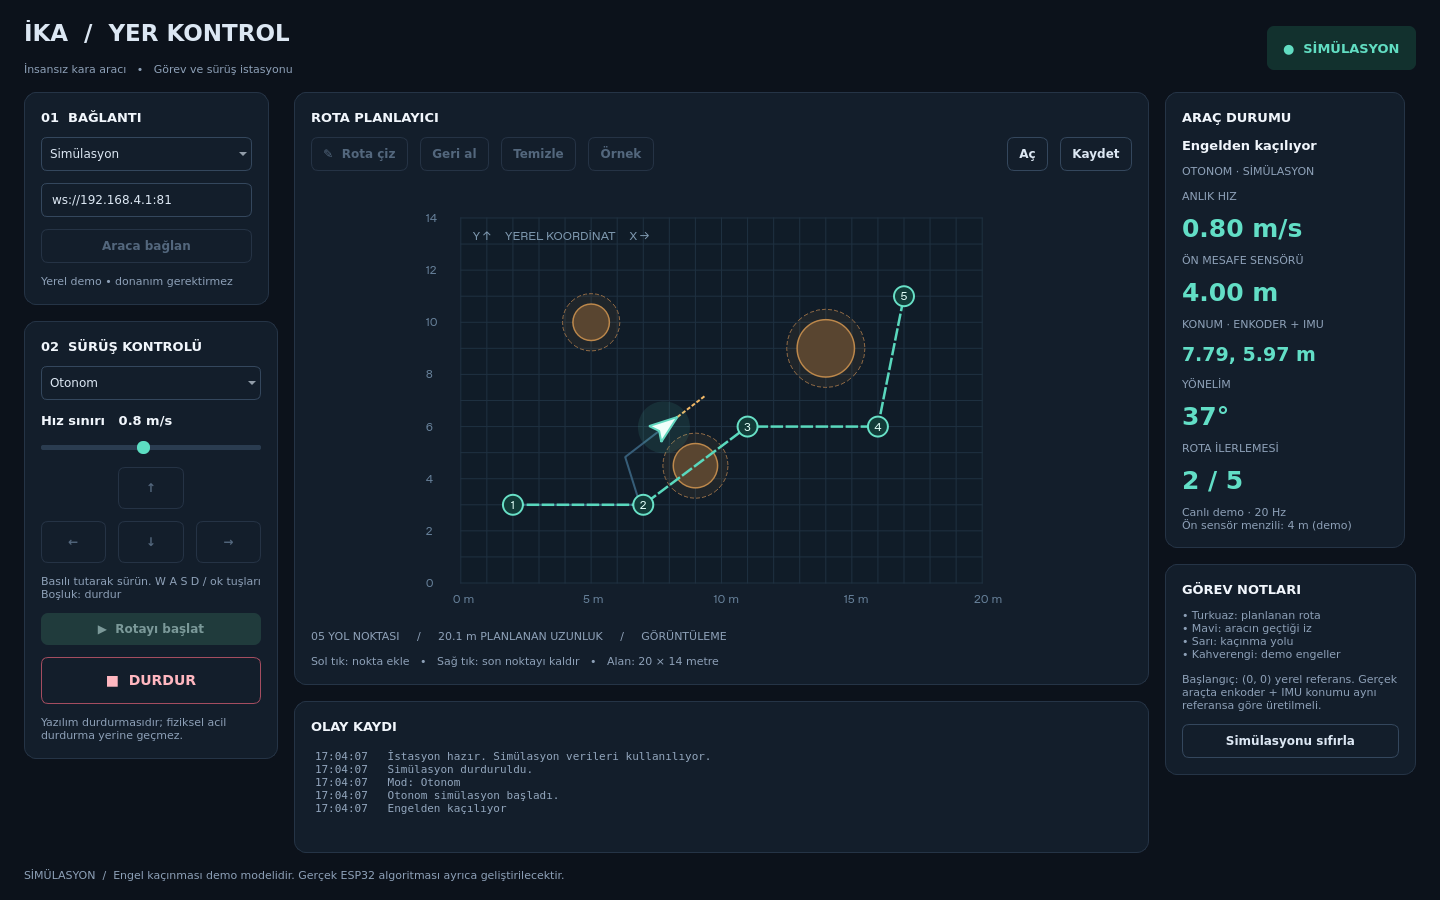
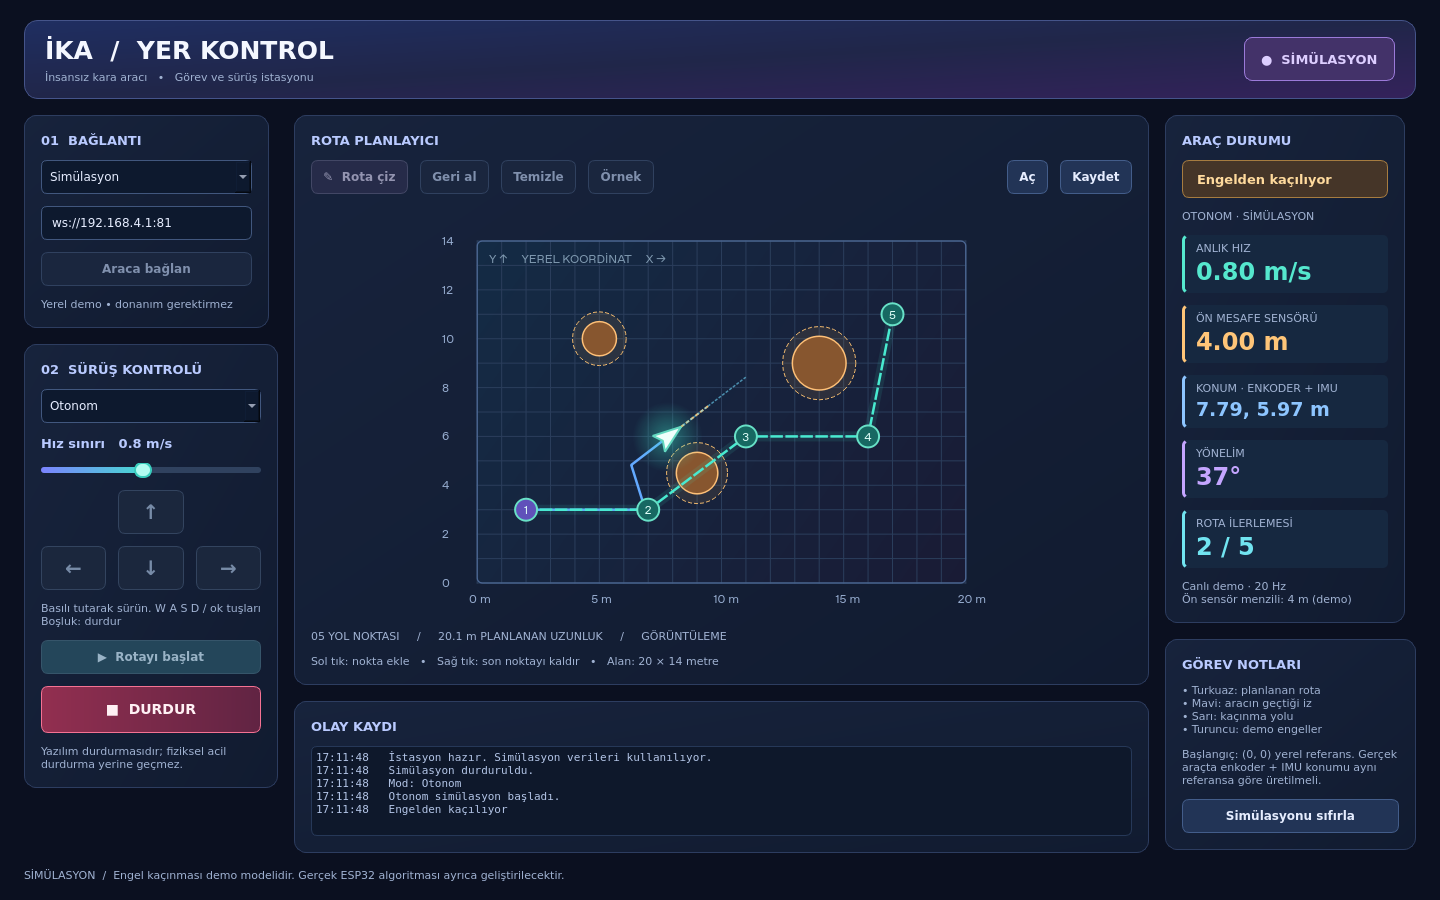
Refresh desktop interface with vivid colors and telemetry cards

diff --git a/ika/app.py b/ika/app.py
@@ -7,34 +7,47 @@ from datetime import datetime
 from pathlib import Path
 
 from PySide6.QtCore import Qt, QPointF, QRectF, QTimer, QUrl, Signal
-from PySide6.QtGui import QColor, QFont, QPainter, QPen, QPolygonF
+from PySide6.QtGui import QColor, QFont, QLinearGradient, QPainter, QPen, QPolygonF, QRadialGradient
 from PySide6.QtWidgets import (QApplication, QComboBox, QFileDialog, QFrame, QGridLayout,
     QHBoxLayout, QLabel, QLineEdit, QMainWindow, QMessageBox, QPushButton,
-    QSlider, QTextEdit, QVBoxLayout, QWidget)
+    QSlider, QScrollArea, QTextEdit, QVBoxLayout, QWidget)
 from PySide6.QtWebSockets import QWebSocket
 
 from .model import Simulator, DEFAULT_ROUTE, OBSTACLES, WIDTH, HEIGHT, encode_route, decode_route, validate_route
 
-BG = '#0c121b'
 STYLE = '''
-QMainWindow, QWidget { background: #0c121b; color: #dce7f3; font-family: 'Segoe UI', 'DejaVu Sans'; font-size: 12px; }
-QFrame#panel { background: #131e2b; border: 1px solid #253446; border-radius: 12px; }
-QFrame#panel QLabel, QFrame#panel QWidget { background: transparent; }
-QLabel#muted { color: #8da0b7; font-size: 11px; }
-QLabel#title { font-size: 23px; font-weight: 700; }
-QLabel#section { font-size: 13px; font-weight: 700; color: #f1f6fc; }
-QLabel#metric { font-size: 25px; font-weight: 600; color: #62dec6; }
-QPushButton { background: #1c2b3d; border: 1px solid #34475d; border-radius: 7px; padding: 9px 11px; font-weight: 600; }
-QPushButton:hover { background: #293e54; border-color: #66dcc5; }
-QPushButton:pressed { background: #35756e; }
-QPushButton:disabled { color: #53677d; border-color: #253345; background: #152130; }
-QPushButton#primary { background: #53d7bc; color: #082b29; border: none; }
-QPushButton#primary:disabled { background: #203b3c; color: #7b9999; }
-QPushButton#stop { background: #5a2632; color: #ffb7c0; border: 1px solid #a54d60; font-size: 14px; padding: 14px; }
-QComboBox, QLineEdit { background: #0d1723; border: 1px solid #34475d; border-radius: 6px; padding: 8px; }
-QTextEdit { background: #0d1723; border: none; color: #92a6bd; font-family: Consolas, monospace; font-size: 11px; }
-QSlider::groove:horizontal { height: 5px; background: #2a3c50; border-radius: 2px; }
-QSlider::handle:horizontal { background: #5cdec2; width: 13px; margin: -4px 0; border-radius: 6px; }
+QMainWindow, QWidget { background: #0b1020; color: #e6edff; font-family: 'Segoe UI', 'DejaVu Sans'; font-size: 12px; }
+QFrame#header { background: qlineargradient(x1:0, y1:0, x2:1, y2:1, stop:0 #1f2e61, stop:0.5 #202649, stop:1 #34225b); border: 1px solid #45548a; border-radius: 14px; }
+QFrame#header QLabel { background: transparent; }
+QFrame#panel { background: qlineargradient(x1:0, y1:0, x2:1, y2:1, stop:0 #17233c, stop:1 #111b30); border: 1px solid #2d3d60; border-radius: 12px; }
+QFrame#panel QLabel { background: transparent; }
+QSlider { background: transparent; }
+QLabel#muted { color: #a0b2d2; font-size: 11px; }
+QLabel#title { font-size: 25px; font-weight: 700; color: #f4f7ff; }
+QLabel#section { font-size: 13px; font-weight: 700; color: #b9caff; }
+QLabel#metric { font-size: 25px; font-weight: 700; color: #50e1cb; }
+QPushButton { background: #223456; border: 1px solid #435d8a; border-radius: 7px; padding: 9px 11px; font-weight: 600; }
+QPushButton:hover { background: #304a77; border-color: #8bafff; color: #ffffff; }
+QPushButton:pressed { background: #3b58a0; border-color: #b9ccff; }
+QPushButton:disabled { color: #8090ad; border-color: #30415f; background: #1a263e; }
+QPushButton#primary { background: qlineargradient(x1:0,y1:0,x2:1,y2:0,stop:0 #20cdb4,stop:1 #4c9bff); color: #061d32; border: 1px solid #67dfed; }
+QPushButton#primary:hover { background: #77e9df; }
+QPushButton#primary:disabled { background: #24465a; color: #99b3c6; border-color: #36556a; }
+QPushButton#stop { background: qlineargradient(x1:0,y1:0,x2:1,y2:0,stop:0 #922f50,stop:1 #612443); color: #fff0f4; border: 1px solid #f57293; font-size: 14px; padding: 14px; }
+QPushButton#stop:hover { background: #b43659; border-color: #ffb0c6; }
+QPushButton#draw { background: #3b326a; border-color: #9078dc; color: #e4d9ff; }
+QPushButton#draw:hover { background: #59448d; }
+QPushButton#draw:disabled { background: #262b49; color: #9394b0; border-color: #424765; }
+QPushButton#drive { background: #1e3554; color: #85d9ff; font-size: 20px; border-color: #3e638b; }
+QPushButton#drive:pressed { background: #267b92; color: #ffffff; }
+QPushButton#drive:disabled { background: #1b273d; color: #778ba7; border-color: #33445f; }
+QComboBox, QLineEdit { background: #0d192e; border: 1px solid #41577e; border-radius: 6px; padding: 8px; selection-background-color: #3e63ab; }
+QComboBox:hover, QLineEdit:focus { border-color: #8caeff; }
+QComboBox QAbstractItemView { background: #192844; color: #eef3ff; selection-background-color: #3e5390; }
+QTextEdit { background: #0e182b; border: 1px solid #263858; border-radius: 6px; color: #b3c5e7; font-family: Consolas, monospace; font-size: 11px; }
+QSlider::groove:horizontal { height: 6px; background: #30425f; border-radius: 3px; }
+QSlider::sub-page:horizontal { background: qlineargradient(x1:0,y1:0,x2:1,y2:0,stop:0 #7b83ff,stop:1 #46d9d0); border-radius: 3px; }
+QSlider::handle:horizontal { background: #b1fcf1; border: 2px solid #39cdbd; width: 14px; margin: -5px 0; border-radius: 8px; }
 '''
 
 
@@ -108,13 +121,19 @@ class MapCanvas(QWidget):
         p.setRenderHint(QPainter.RenderHint.Antialiasing)
         s,ox,oy = self.area()
         rect = QRectF(ox,oy,WIDTH*s,HEIGHT*s)
-        p.fillRect(rect,QColor('#101c28'))
-        p.setPen(QPen(QColor('#1e3040'),1))
+        field = QLinearGradient(rect.topLeft(), rect.bottomRight())
+        field.setColorAt(0, QColor('#142b45'))
+        field.setColorAt(1, QColor('#191b35'))
+        p.fillRect(rect, field)
+        p.setPen(QPen(QColor('#2a3d5b'),1))
         for x in range(21):
             p.drawLine(self.screen(x,0),self.screen(x,HEIGHT))
         for y in range(15):
             p.drawLine(self.screen(0,y),self.screen(WIDTH,y))
-        p.setPen(QColor('#668099'))
+        p.setPen(QPen(QColor('#4c6895'), 1.3))
+        p.setBrush(Qt.BrushStyle.NoBrush)
+        p.drawRoundedRect(rect, 5, 5)
+        p.setPen(QColor('#96accf'))
         p.setFont(QFont('Segoe UI',9))
         for x in range(0,21,5):
             a = self.screen(x,0)
@@ -124,25 +143,28 @@ class MapCanvas(QWidget):
             p.drawText(QPointF(a.x()-35,a.y()+4),str(y))
         if self.simulation:
             for x,y,r in OBSTACLES:
-                p.setPen(QPen(QColor('#8d6844'),1,Qt.PenStyle.DashLine))
-                p.setBrush(QColor(230,161,73,18))
+                p.setPen(QPen(QColor('#edb76d'),1,Qt.PenStyle.DashLine))
+                p.setBrush(QColor(255,177,76,24))
                 p.drawEllipse(self.screen(x,y),(r+.4)*s,(r+.4)*s)
-                p.setPen(QPen(QColor('#bd884b'),1.5))
-                p.setBrush(QColor('#594530'))
+                p.setPen(QPen(QColor('#ffc077'),1.5))
+                p.setBrush(QColor('#87562f'))
                 p.drawEllipse(self.screen(x,y),r*s,r*s)
         if len(self.trace)>1:
-            p.setPen(QPen(QColor('#365d78'),2))
+            p.setPen(QPen(QColor('#63a9ff'),2.5))
             p.drawPolyline(QPolygonF([self.screen(*a) for a in self.trace]))
         if len(self.route)>1:
-            p.setPen(QPen(QColor('#59d8bd'),2.5,Qt.PenStyle.DashLine))
-            p.drawPolyline(QPolygonF([self.screen(*a) for a in self.route]))
+            route_shape = QPolygonF([self.screen(*a) for a in self.route])
+            p.setPen(QPen(QColor(63, 231, 208, 25), 10))
+            p.drawPolyline(route_shape)
+            p.setPen(QPen(QColor('#48ead0'),2.5,Qt.PenStyle.DashLine))
+            p.drawPolyline(route_shape)
         for i, point in enumerate(self.route):
             a = self.screen(*point)
-            p.setBrush(QColor('#123b38'))
+            p.setBrush(QColor('#176862') if i else QColor('#6051ba'))
             p.setPen(QPen(QColor('#68e1c7'),2))
-            p.drawEllipse(a,10,10)
+            p.drawEllipse(a,11,11)
             p.setPen(QColor('#e1fff9'))
-            p.drawText(QRectF(a.x()-10,a.y()-10,20,20),Qt.AlignmentFlag.AlignCenter,str(i+1))
+            p.drawText(QRectF(a.x()-11,a.y()-11,22,22),Qt.AlignmentFlag.AlignCenter,str(i+1))
         if self.sim.detour and self.simulation:
             p.setPen(QPen(QColor('#f3b967'),2,Qt.PenStyle.DotLine))
             p.drawPolyline(QPolygonF([self.screen(self.sim.x,self.sim.y)]+[self.screen(*a) for a in self.sim.detour]))
@@ -150,9 +172,16 @@ class MapCanvas(QWidget):
         p.save()
         p.translate(a)
         p.rotate(-math.degrees(self.sim.yaw))
-        p.setBrush(QColor(96,220,196,25))
+        halo = QRadialGradient(QPointF(), 35)
+        halo.setColorAt(0, QColor(64, 241, 208, 100))
+        halo.setColorAt(1, QColor(64, 241, 208, 0))
+        p.setBrush(halo)
         p.setPen(Qt.PenStyle.NoPen)
-        p.drawEllipse(QPointF(),26,26)
+        p.drawEllipse(QPointF(),35,35)
+        # Simülasyonda ön sensörün ölçüm ışını.
+        if self.simulation:
+            p.setPen(QPen(QColor(113,219,255,150),1.5,Qt.PenStyle.DotLine))
+            p.drawLine(QPointF(20,0),QPointF(max(20,self.sim.front*s),0))
         p.setBrush(QColor('#effffb'))
         p.setPen(QPen(QColor('#63d8c0'),2))
         p.drawPolygon(QPolygonF([QPointF(17,0),QPointF(-11,-10),QPointF(-6,0),QPointF(-11,10)]))
@@ -192,11 +221,19 @@ class MainWindow(QMainWindow):
 
     def build_ui(self):
         root = QWidget()
-        self.setCentralWidget(root)
+        root.setMinimumSize(1200, 900)
+        scroll = QScrollArea()
+        scroll.setWidgetResizable(True)
+        scroll.setFrameShape(QFrame.Shape.NoFrame)
+        scroll.setWidget(root)
+        self.setCentralWidget(scroll)
         outer = QVBoxLayout(root)
         outer.setContentsMargins(24,20,24,18)
         outer.setSpacing(16)
-        header = QHBoxLayout()
+        header_box = QFrame()
+        header_box.setObjectName('header')
+        header = QHBoxLayout(header_box)
+        header.setContentsMargins(20, 14, 20, 14)
         branding = QVBoxLayout()
         brand_title = label('İKA  /  YER KONTROL', 'title')
         brand_title.setMinimumWidth(560)
@@ -206,9 +243,9 @@ class MainWindow(QMainWindow):
         header.addStretch()
         self.badge = label('●  SİMÜLASYON', 'section')
         self.badge.setFixedHeight(44)
-        self.badge.setStyleSheet('color: #61ddc2; padding: 12px; background: #12312e; border-radius: 7px;')
+        self.badge.setStyleSheet('color: #ddceff; padding: 12px; background: #433269; border: 1px solid #9b7ad9; border-radius: 8px;')
         header.addWidget(self.badge)
-        outer.addLayout(header)
+        outer.addWidget(header_box)
         columns = QHBoxLayout()
         columns.setSpacing(16)
         left = QVBoxLayout()
@@ -243,7 +280,7 @@ class MainWindow(QMainWindow):
         pad = QGridLayout()
         self.drive_buttons = []
         for text,row,col,axis,value in [('↑',0,1,0,1.),('←',1,0,1,1.),('↓',1,1,0,-1.),('→',1,2,1,-1.)]:
-            b = button(text)
+            b = button(text, name='drive')
             b.setMinimumHeight(42)
             b.pressed.connect(lambda a=axis,v=value:self.set_manual(a,v))
             b.released.connect(lambda a=axis:self.set_manual(a,0.))
@@ -262,7 +299,7 @@ class MainWindow(QMainWindow):
         center = QVBoxLayout()
         box, layout = panel('ROTA PLANLAYICI')
         toolbar = QHBoxLayout()
-        self.edit_btn = button('✎  Rota çiz',self.toggle_edit)
+        self.edit_btn = button('✎  Rota çiz',self.toggle_edit,'draw')
         self.undo_btn = button('Geri al',self.undo)
         self.clear_btn = button('Temizle',self.clear_route)
         self.demo_btn = button('Örnek',self.demo_route)
@@ -291,21 +328,30 @@ class MainWindow(QMainWindow):
         box, layout = panel('ARAÇ DURUMU')
         box.setFixedWidth(240)
         self.state_label = label('Hazır','section')
+        self.state_label.setStyleSheet('color: #79f1d4; background: #163d3e; border: 1px solid #2a7169; border-radius: 7px; padding: 10px;')
         layout.addWidget(self.state_label)
         self.mode_label = label('MANUEL','muted')
         layout.addWidget(self.mode_label)
         self.metrics = {}
+        metric_colors = {'speed': '#55e8ce', 'front': '#ffc578', 'position': '#8dc5ff', 'heading': '#c4a5ff', 'progress': '#71e4f0'}
         for key,title in [('speed','ANLIK HIZ'),('front','ÖN MESAFE SENSÖRÜ'),('position','KONUM · ENKODER + IMU'),('heading','YÖNELİM'),('progress','ROTA İLERLEMESİ')]:
-            layout.addWidget(label(title,'muted'))
+            card = QFrame()
+            color = metric_colors[key]
+            card.setStyleSheet(f'QFrame {{ background: #162840; border: none; border-left: 3px solid {color}; border-radius: 5px; }} QLabel {{ border: none; background: transparent; }}')
+            card_layout = QVBoxLayout(card)
+            card_layout.setContentsMargins(11, 7, 8, 7)
+            card_layout.setSpacing(3)
+            card_layout.addWidget(label(title,'muted'))
             self.metrics[key] = label('—','metric')
-            if key=='position':
-                self.metrics[key].setStyleSheet('font-size: 19px; color: #62dec6;')
-            layout.addWidget(self.metrics[key])
+            size = 19 if key=='position' else 24
+            self.metrics[key].setStyleSheet(f'font-size: {size}px; color: {color}; font-weight: 700;')
+            card_layout.addWidget(self.metrics[key])
+            layout.addWidget(card)
         self.age_label = label('Veri kaynağı: simülasyon','muted')
         layout.addWidget(self.age_label)
         right.addWidget(box)
         box, layout = panel('GÖREV NOTLARI')
-        layout.addWidget(label('• Turkuaz: planlanan rota\n• Mavi: aracın geçtiği iz\n• Sarı: kaçınma yolu\n• Kahverengi: demo engeller','muted'))
+        layout.addWidget(label('• Turkuaz: planlanan rota\n• Mavi: aracın geçtiği iz\n• Sarı: kaçınma yolu\n• Turuncu: demo engeller','muted'))
         layout.addWidget(label('Başlangıç: (0, 0) yerel referans. Gerçek araçta enkoder + IMU konumu aynı referansa göre üretilmeli.','muted'))
         self.reset_btn = button('Simülasyonu sıfırla',self.reset)
         layout.addWidget(self.reset_btn)
@@ -526,6 +572,18 @@ class MainWindow(QMainWindow):
             self.age_label.setText(f'Son veri: {now-self.last_rx:.1f} sn önce' if self.last_data else 'Henüz geçerli telemetri yok')
             self.connection_info.setText('WebSocket açık' if self.socket.isValid() else 'Bağlantı kapalı')
         self.state_label.setText(state)
+        if self.is_sim:
+            badge_colors = ('#ddceff', '#433269', '#9b7ad9')
+        elif self.last_data is not None and now-self.last_rx<1.:
+            badge_colors = ('#83f5dd', '#153d3e', '#328878')
+        else:
+            badge_colors = ('#ffd6a0', '#4b3431', '#ae7949')
+        fg, bg, border = badge_colors
+        self.badge.setStyleSheet(f'color: {fg}; background: {bg}; border: 1px solid {border}; border-radius: 8px; padding: 12px;')
+        if 'kaçıl' in state or 'güncel değil' in state or 'Güvenli geçiş yok' in state:
+            self.state_label.setStyleSheet('color: #ffda9d; background: #453528; border: 1px solid #a67c40; border-radius: 7px; padding: 10px;')
+        else:
+            self.state_label.setStyleSheet('color: #79f1d4; background: #163d3e; border: 1px solid #2a7169; border-radius: 7px; padding: 10px;')
         if state!=self.last_state:
             self.log(state)
             self.last_state = state
